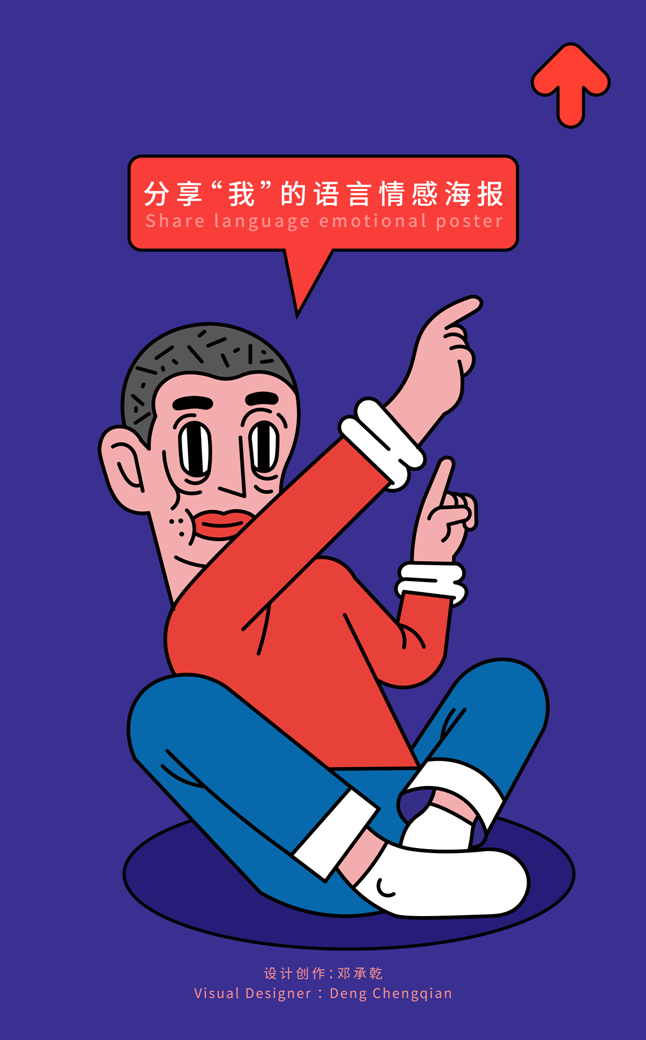
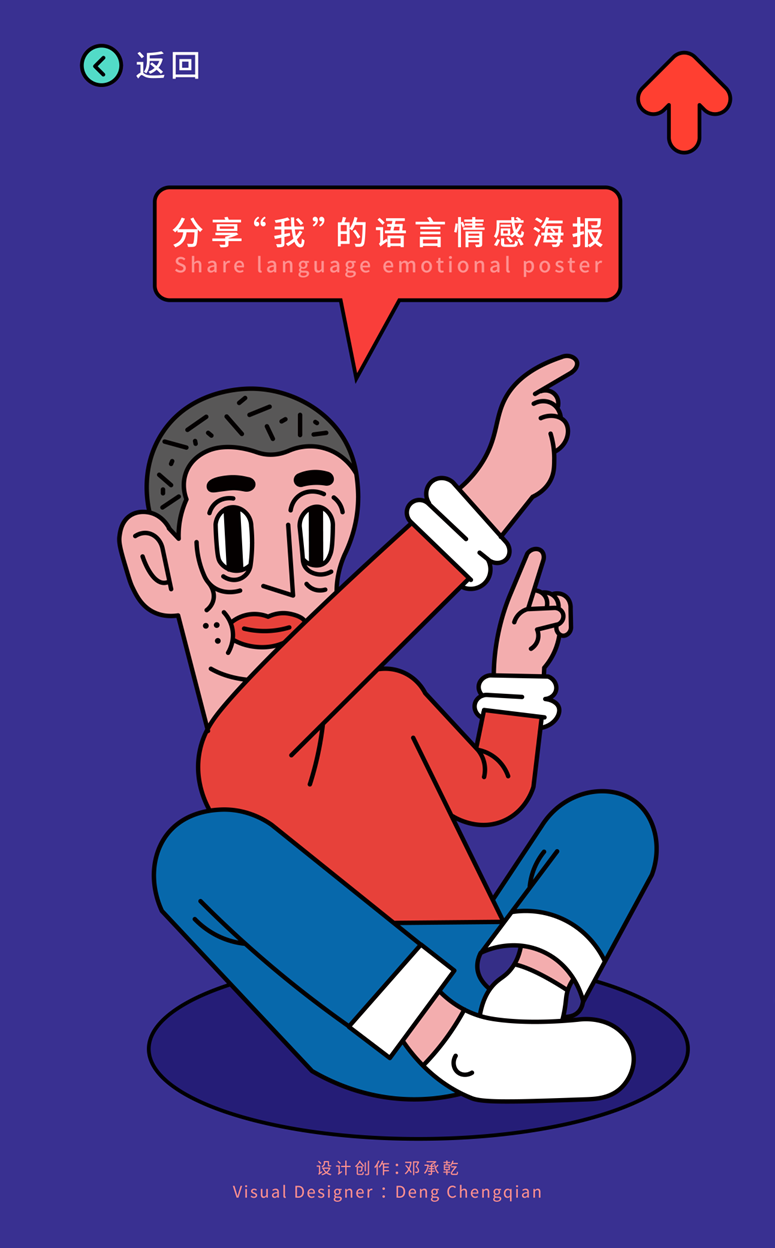
分享页面添加返回按钮

diff --git a/static/css/main.css b/static/css/main.css
@@ -294,7 +294,7 @@ footer p {
     position: absolute;
     z-index: 10;
     width: auto;
-    margin: 5% 0 0 5%;
+    margin: 3% 0 0 10%;
 }
 .share header a {
     display: inline-block;
@@ -310,7 +310,7 @@ footer p {
     width: 0.8em;
     height: 0.8em;
     margin: -0.15em 0.1em 0 0;
-    background: url(../img/back.png) no-repeat 0 80%;
+    /*background: url(../img/back.png) no-repeat 0 80%;*/
     background-size: 100% auto;
 }
 .share center {

diff --git a/index.html b/index.html
@@ -129,7 +129,7 @@
         </section>
 
         <section class="share" style="display: none;">
-            <!-- <header><a></a></header> -->
+            <header><a></a></header>
             <center></center>
             <!-- <footer>
                 <p>设计创作：邓承乾</p>
